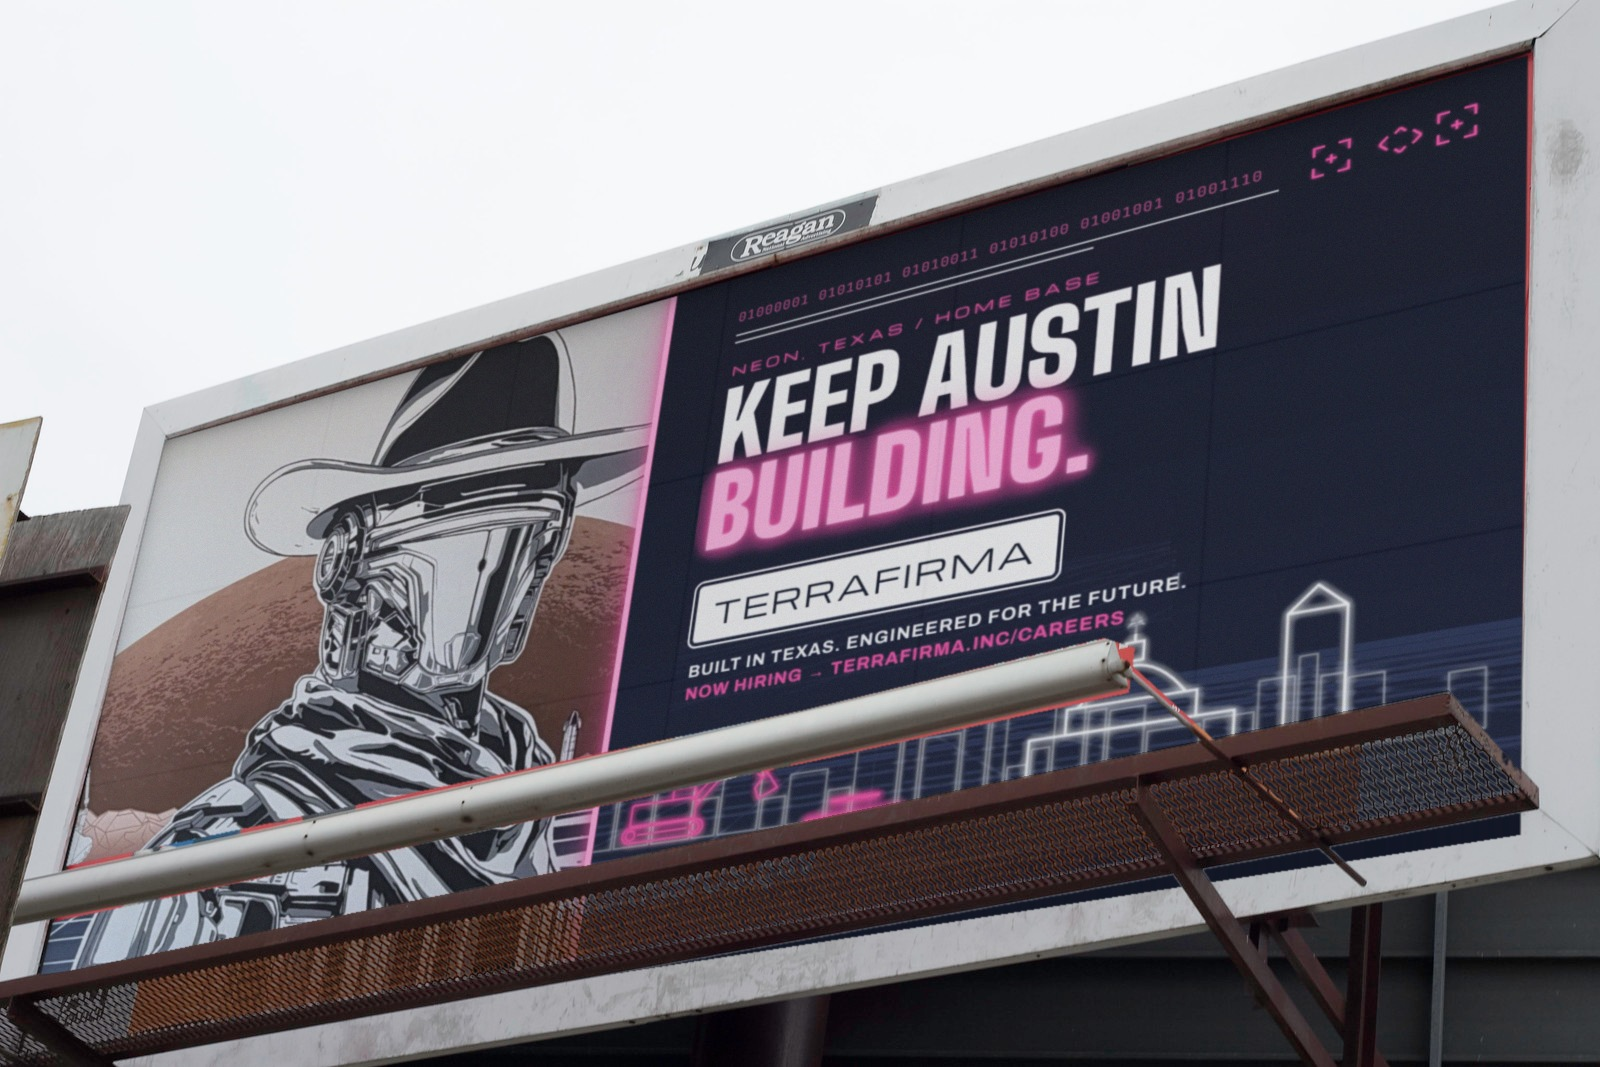
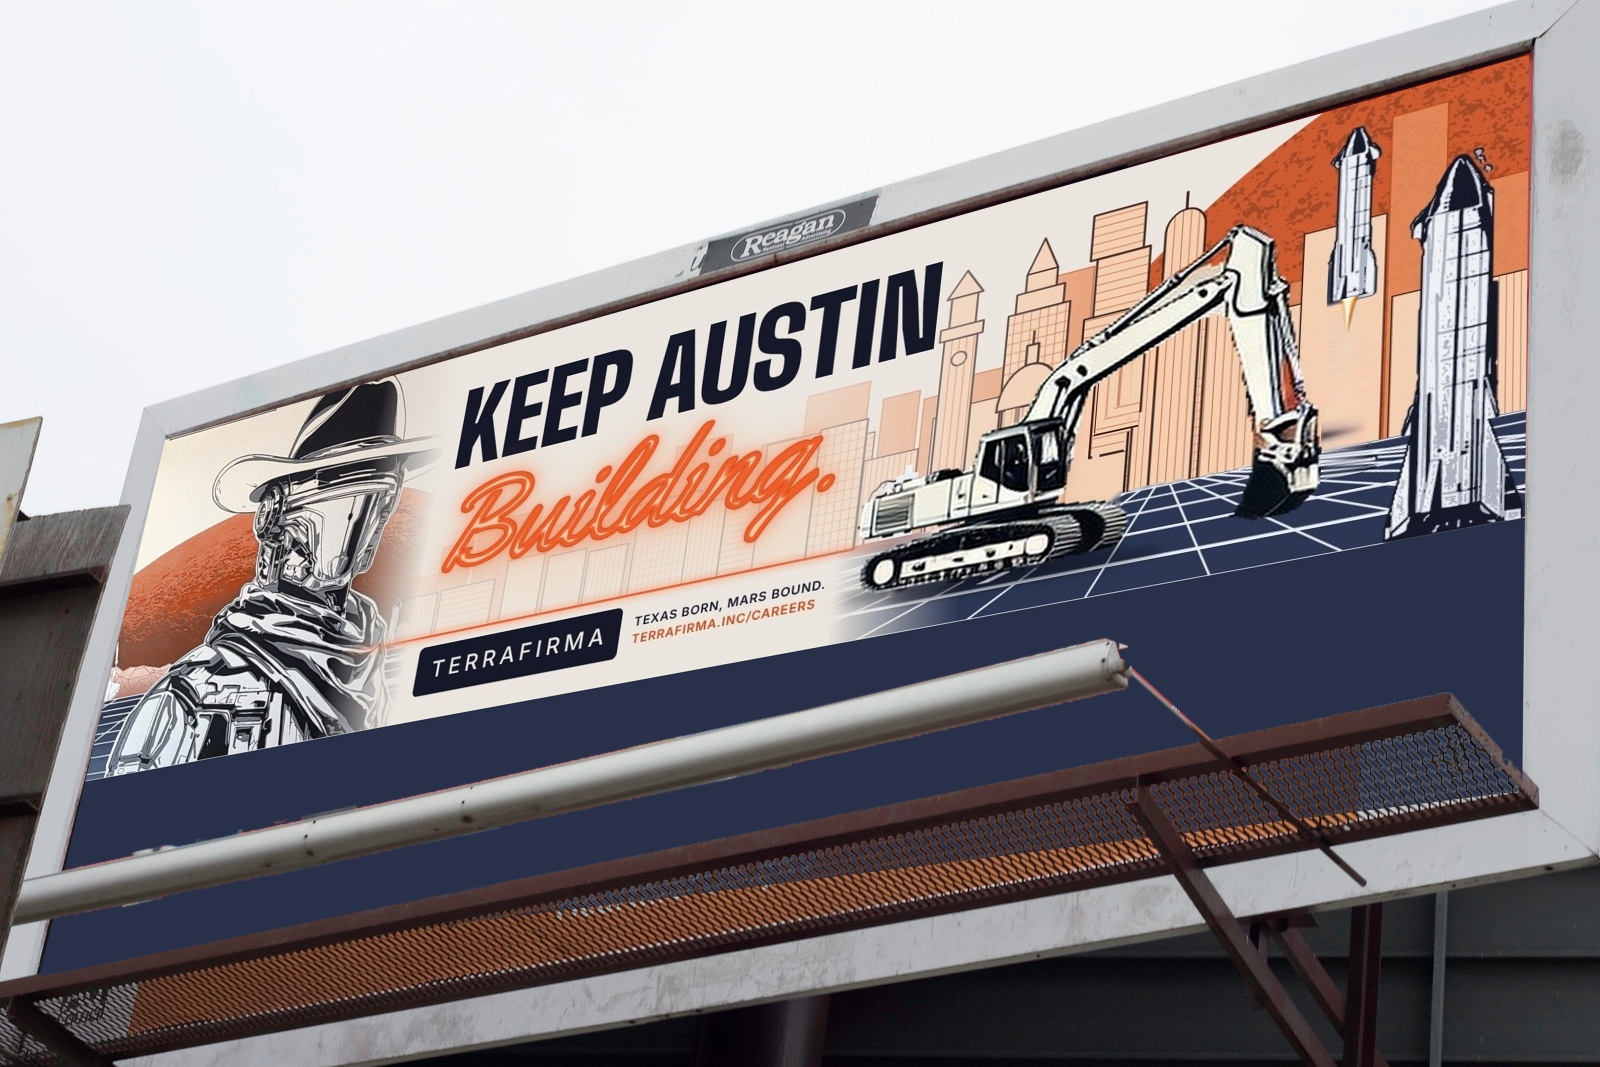
Use current Austin billboard mockup and tighten Miami caption

diff --git a/public/terrafirma_billboard_campaign/index.html b/public/terrafirma_billboard_campaign/index.html
@@ -664,7 +664,7 @@ footer li{margin-bottom:6px;break-inside:avoid}
  </figure>
  <div class="city-copy">
   <h2>AQUÍ SE<br><em>TRABAJA.</em></h2>
-  <p class="simple">“Aquí se trabaja” means “We work here.” The Spanish headline speaks directly to the operators and field crews TerraFirma hopes to hire in Miami.</p>
+  <p class="simple">“Aquí se trabaja” means “We work here.” It’s for the crews who build Miami.</p>
   <div class="facts3">
    <div><p class="mono">WHERE</p><p>A hand-painted wall in Wynwood, plus an I-95 bulletin by Brickell</p></div>
    <div><p class="mono">HIRING</p><p>Operators, technicians, field ops (bilingual)</p></div>
@@ -1169,19 +1169,19 @@ footer li{margin-bottom:6px;break-inside:avoid}
   <h2>What a driver would actually see.</h2>
   <p class="lead">The city pages show each billboard in an illustrated scene. This page puts the Austin design on a real billboard photographed in Austin, with the light arm and catwalk still in front of it, so you can judge it the way someone stuck in traffic would.</p>
   <figure style="margin:28px 0 0">
-   <img src="/terrafirma_billboard_campaign/img/austin-real-render.jpg" alt="The KEEP AUSTIN BUILDING. board shown on a real Austin billboard, partly crossed by the board's light arm and catwalk" style="width:100%;height:auto;display:block;border-radius:6px">
+   <img src="/terrafirma_billboard_campaign/img/austin-real-render.jpg" alt="The current Keep Austin Building billboard design fitted to a real Austin billboard above its light arm and catwalk" style="width:100%;height:auto;display:block;border-radius:6px">
    <figcaption class="mono" style="margin-top:10px;font-size:12px;color:#8E949C">Photo: alamosbasement / Flickr, CC BY 2.0 (modified). The design on the billboard is a TerraFirma mockup.</figcaption>
   </figure>
   <details class="fold">
    <summary>How this render was made</summary>
    <div class="fold-body">
     <details class="sub"><summary>Before and after</summary><div class="sub-body">
-     <img src="/terrafirma_billboard_campaign/img/austin-real-before-after.jpg" alt="The original Austin billboard photo next to the same photo with the TerraFirma design added" style="width:100%;height:auto;display:block;border-radius:6px">
+     <img src="/terrafirma_billboard_campaign/img/austin-real-before-after.jpg" alt="The original Austin billboard photo beside the same photo with the current daylight TerraFirma artwork" style="width:100%;height:auto;display:block;border-radius:6px">
      <p>The left image is the original photo, which shows an older public-health ad. The right image is the same photo with the TerraFirma billboard fitted to the panel. The design was bent to match the billboard's angle and toned down slightly to look like printed vinyl in cloudy daylight. The light arm, the support rod and the catwalk grating were kept from the original photo so they sit in front of the design, exactly as they would in real life.</p>
     </div></details>
     <details class="sub"><summary>What changed to fit this billboard</summary><div class="sub-body">
-     <p>This is a poster billboard, which is shorter and squarer than the long 14-by-48-foot highway billboards the plan buys. Its face is about two and a quarter times as wide as it is tall, while the main design is about three and a half times as wide. Rather than stretch anything, the layout is rebuilt for the taller shape. The headline is about a third larger and fills the top of the billboard, and the skyline, excavator and rockets sit lower so the scene fills the height.</p>
-     <p>The catwalk and light arm hide roughly the bottom quarter of this billboard. If the design had been placed as-is, the logo and the careers address would have ended up behind the steel. So the headline, the wordmark, the sign-off and the careers address all sit in the top two-thirds, and only the grid floor and the bottom of the Operator’s jacket run behind the steel.</p>
+     <p>This is a poster billboard, which is shorter and squarer than the long 14-by-48-foot highway billboards the plan buys. Its face is about two and a quarter times as wide as it is tall, while the main design is about three and a half times as wide. The current daylight artwork keeps its proportions across the top of the poster, with a navy band filling the extra height below.</p>
+     <p>The catwalk and light arm hide roughly the bottom quarter of this billboard. If the design had been placed as-is, the logo and the careers address would have ended up behind the steel. The headline, wordmark, sign-off and careers address sit above the hardware, and the light arm crosses the navy band below.</p>
     </div></details>
     <details class="sub"><summary>What it means for the real buy</summary><div class="sub-body">
      <p>Many billboards have catwalks, lights or poles in front of them, and they almost always cover the bottom edge. Before each billboard is printed, we should ask the vendor for a photo of the actual location and keep the headline, logo and careers address out of the bottom fifth of the design. We should also build a poster-size version of each city's billboard, because some of the best locations near job sites and downtown streets are poster billboards rather than highway bulletins.</p>
